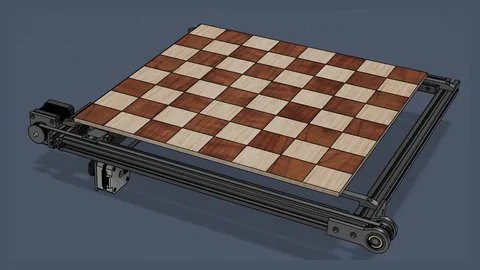
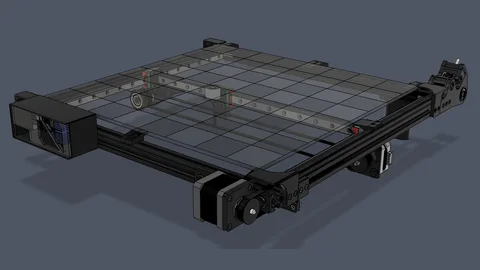
Update chessbot image

diff --git a/src/components/featured-projects.tsx b/src/components/featured-projects.tsx
@@ -32,7 +32,7 @@ const featuredProjects: FeaturedProject[] = [
         title: "chessbot",
         description: "designed a chess-playing robot. under-board gantry system, compact 2-layer pcb, and aruco tag pipeline w/ opencv",
         image: "/previews/chessbot.webp",
-        alt: "CAD of the wooden chessboard and its motor-driven under-board gantry",
+        alt: "CAD of the chessbot board with its under-board gantry, motors, and electronics enclosure",
         url: "https://github.com/vuktacic/chessler",
         label: "Open the chess robot project on GitHub",
     },
